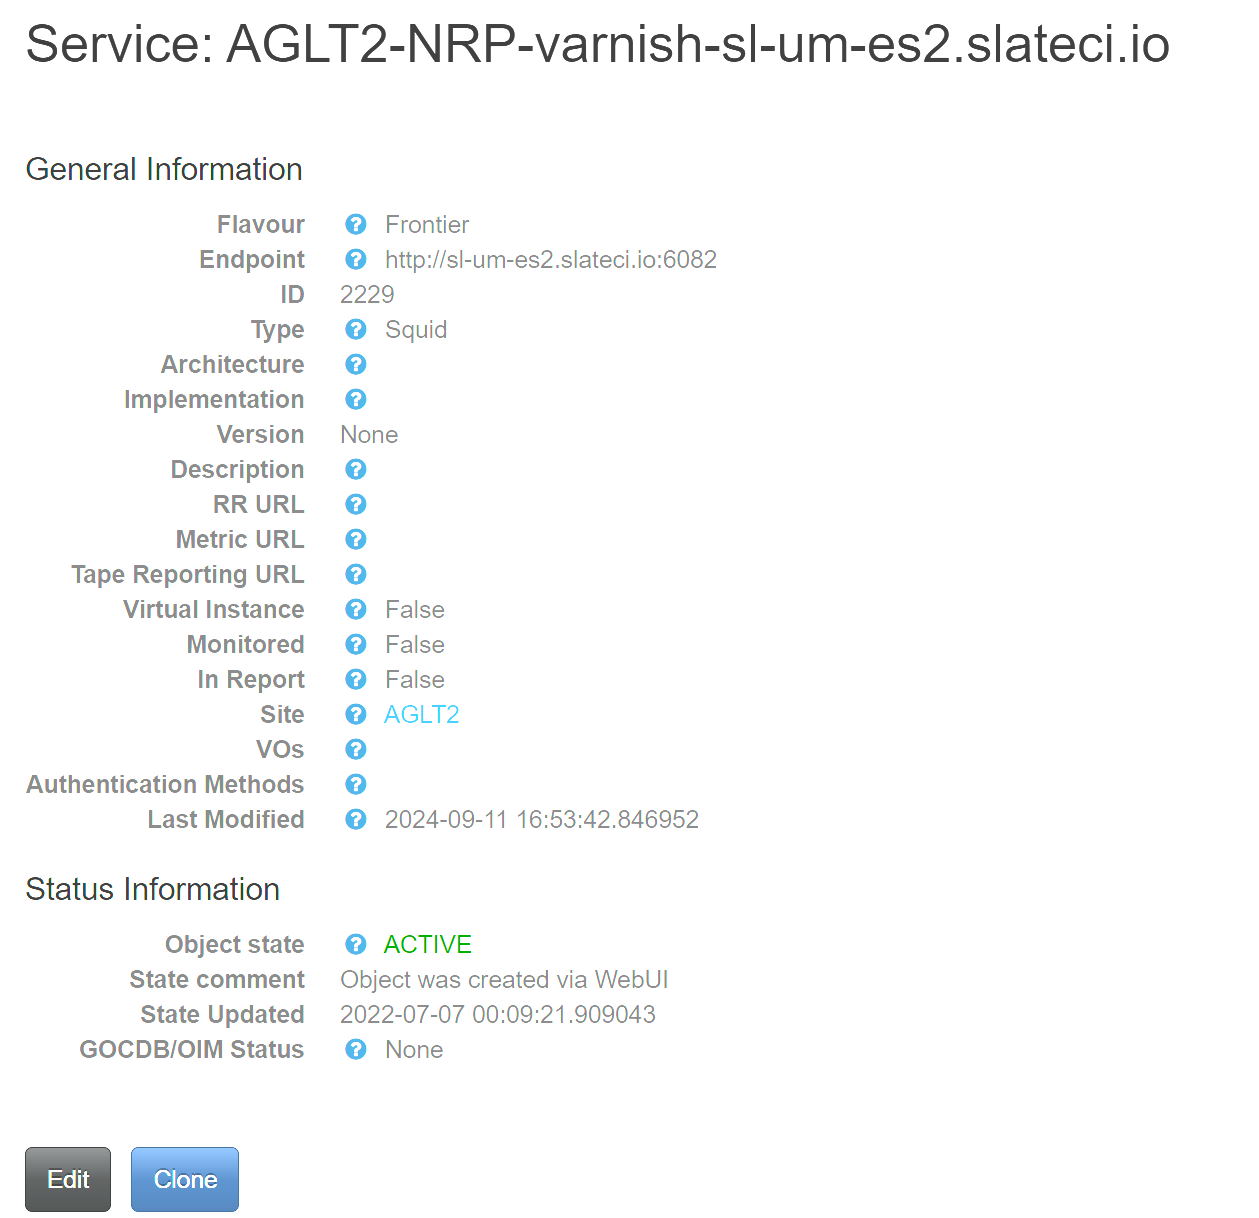
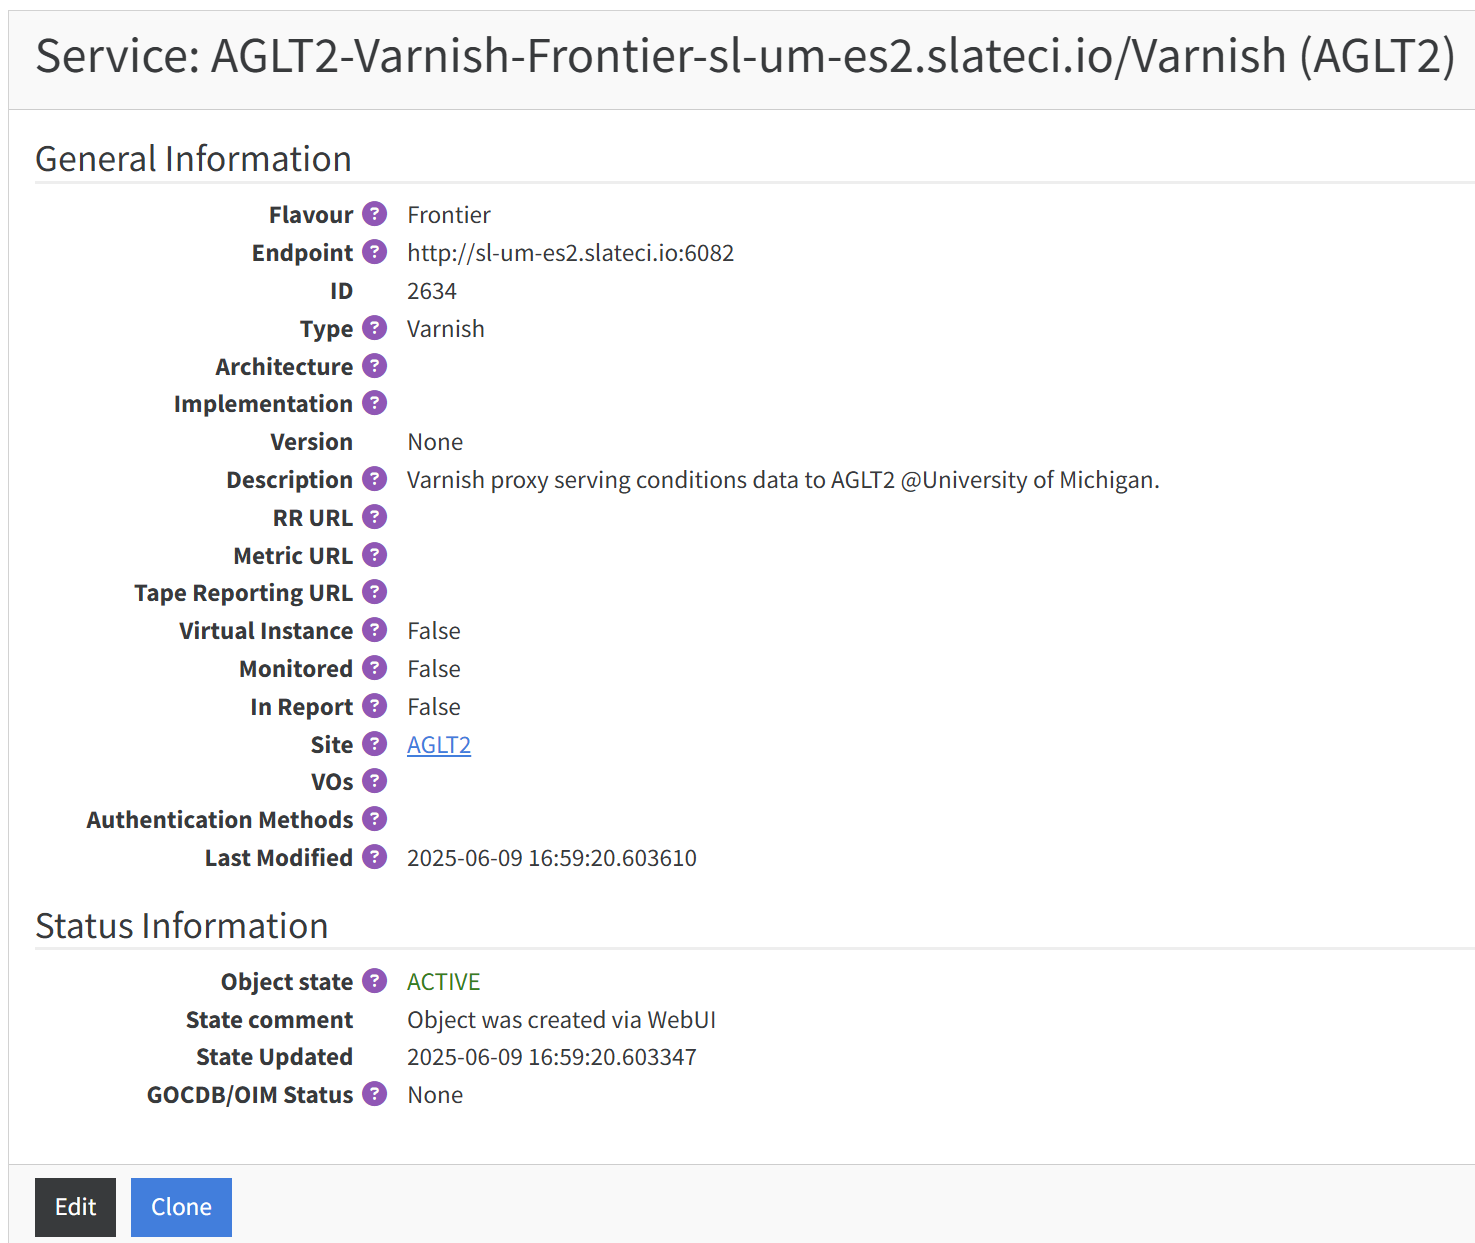
Implement code changes to enhance functionality and improve performance

Changed region(s): [[0.0, 0.1248, 0.7744, 0.9048], [0.0, 0.0, 0.9913, 0.0624], [0.0, 0.936, 0.2168, 0.9984]]

diff --git a/README.md b/README.md
@@ -86,7 +86,7 @@ There are only a few fields you should fill:
 <img src="Manual/CRIC_varnish_service.png" alt="varnish service" style="width:70%;margin: 10px;" />
 
 To add the created service to your site and change order of priority of caching services, first find your site [here](https://atlas-cric.cern.ch/core/experimentsite/list/). Looking at details you will see something like this:
-<img src="Manual/CRIC_squid_configuration.png" alt="squid configuration" style="width:90%;margin: 10px;" />
+<img src="Manual/CRIC_proxy_configuration.png" alt="proxy configuration" style="width:90%;margin: 10px;" />
 
 Clicking "Manage configuration" will allow to add/remove a caching proxy and reoder them. Feel free to add a varnish from a nearby site as a backup with the lowest priority.
 
